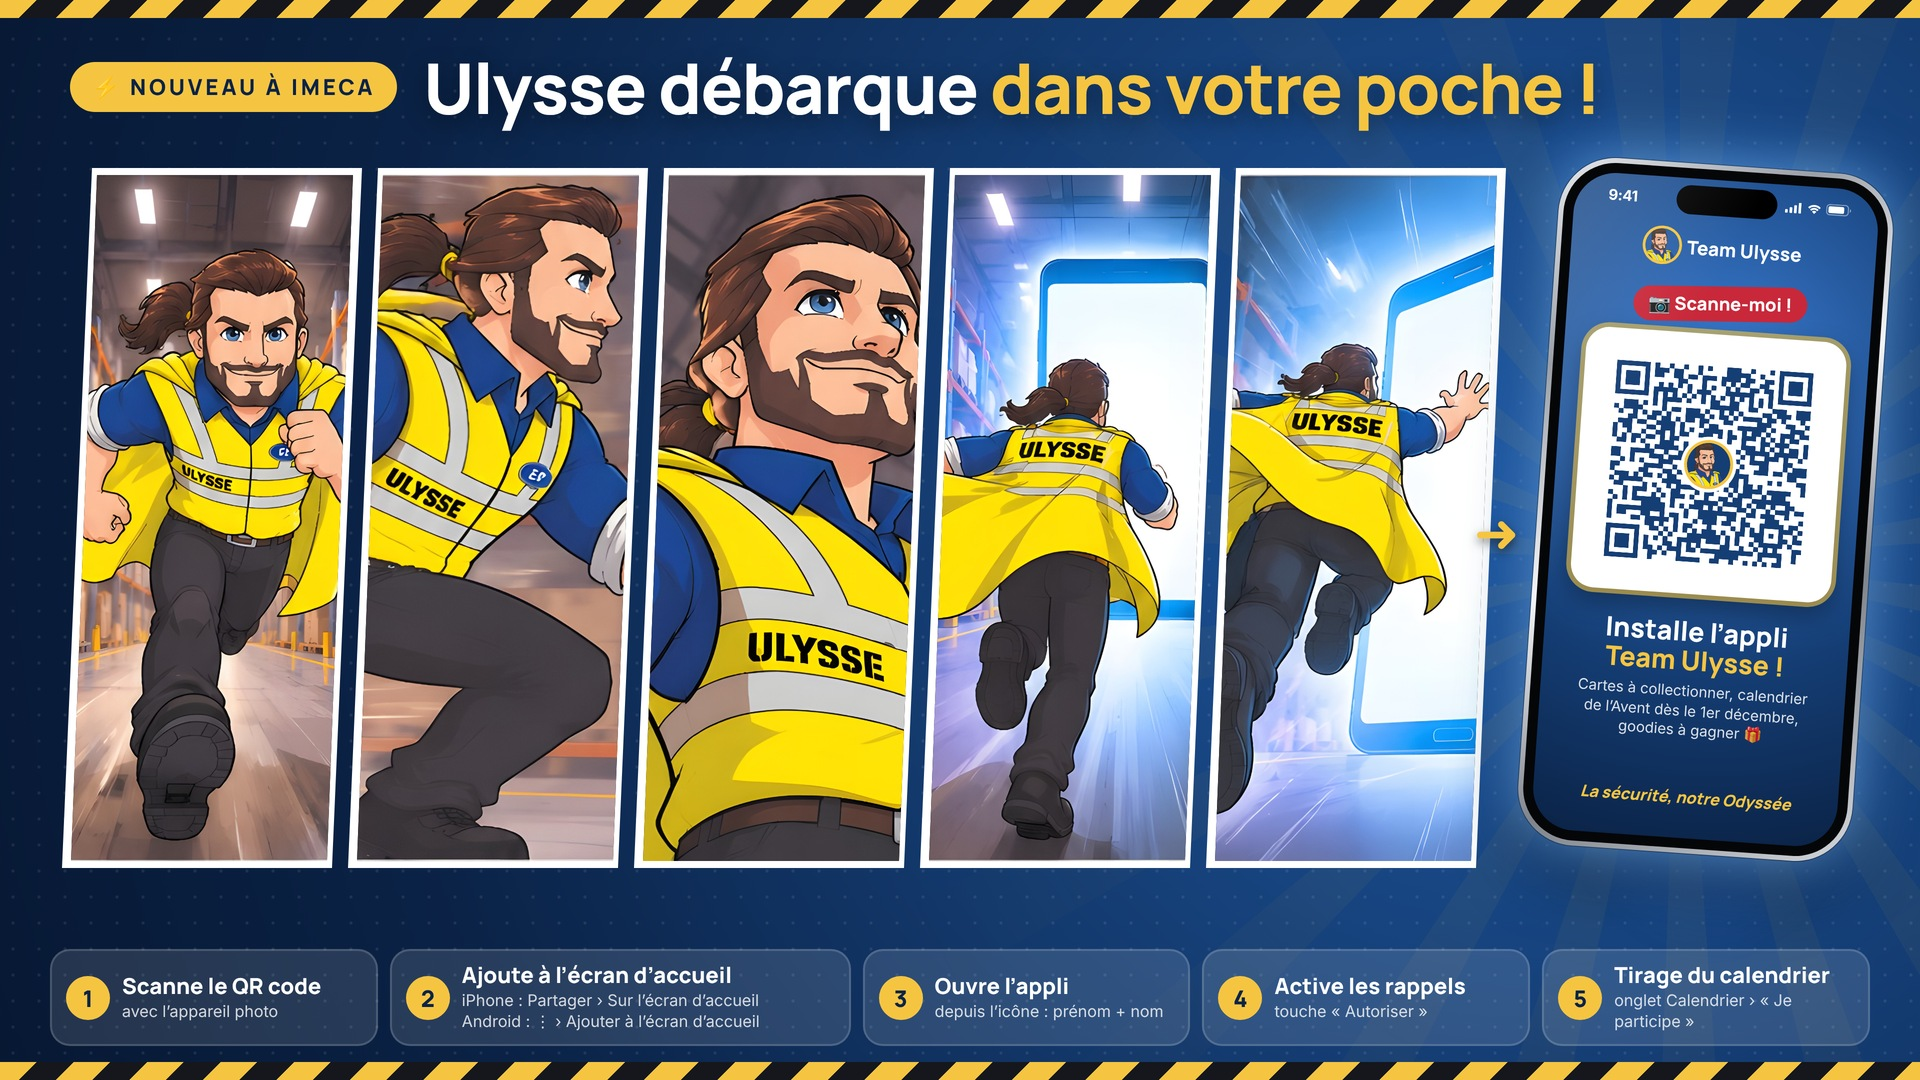
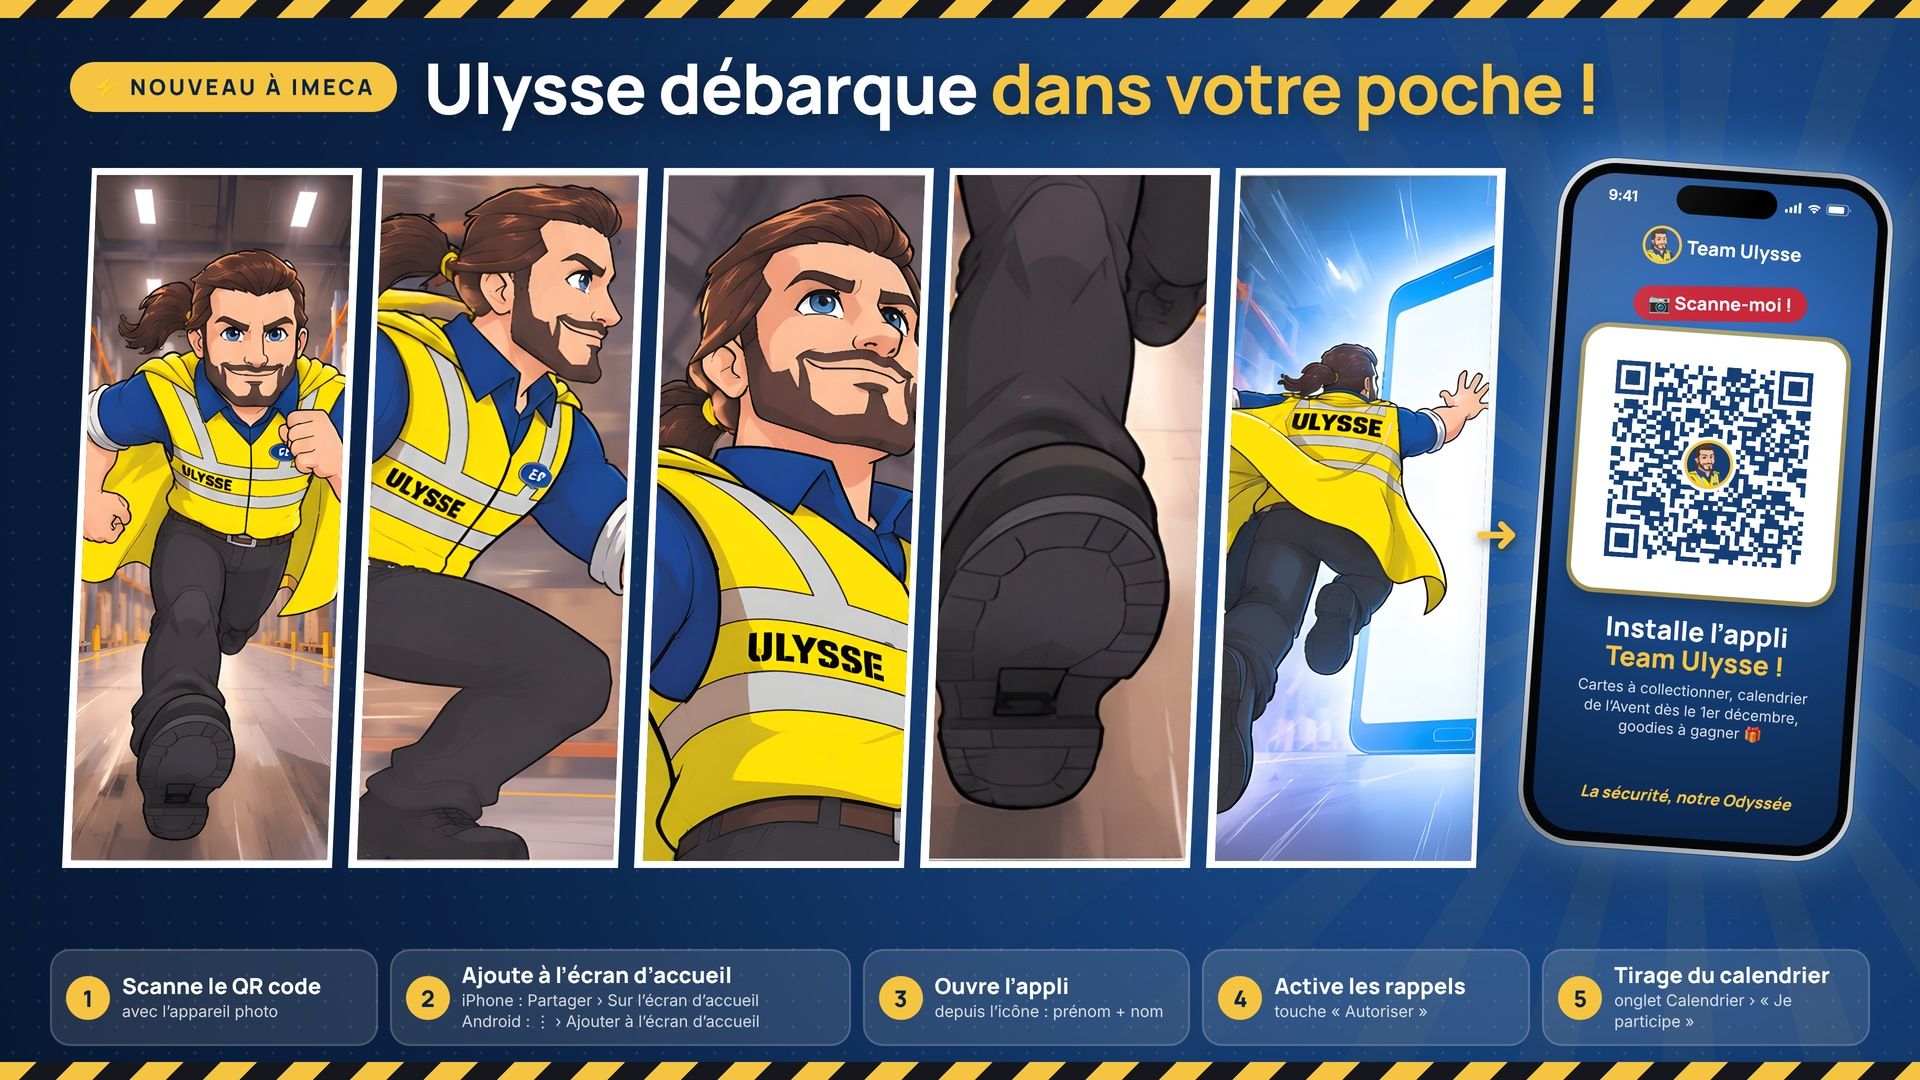
Écran TV : 4e case remplacée par un gros plan sur la chaussure de sécurité
Claude-Session: https://claude.ai/code/session_01UTW3MaXuG19g7RtJo149UJ

Changed region(s): [[0.4688, 0.1528, 0.6562, 0.7944]]

diff --git a/communication/sources/ecran-tv.html b/communication/sources/ecran-tv.html
@@ -86,7 +86,7 @@
         <div class="case"><div class="in"><img src="img/ulysse-p1.jpg" style="object-position: 50% 40%" /></div></div>
         <div class="case"><div class="in"><img src="img/ulysse-p3.jpg" style="object-position: 64% 40%" /></div></div>
         <div class="case"><div class="in"><img src="img/ulysse-p4.jpg" style="object-position: 46% 30%" /></div></div>
-        <div class="case"><div class="in"><img src="img/ulysse-p2.jpg" style="object-position: 58% 50%" /></div></div>
+        <div class="case"><div class="in"><img src="img/ulysse-p6.jpg" style="object-position: 50% 70%" /></div></div>
         <div class="case"><div class="in"><img src="img/ulysse-p5.jpg" style="object-position: 52% 50%" /></div></div>
       </div>
       <span class="fleche" style="left: 1474px; top: 500px">➜</span>
